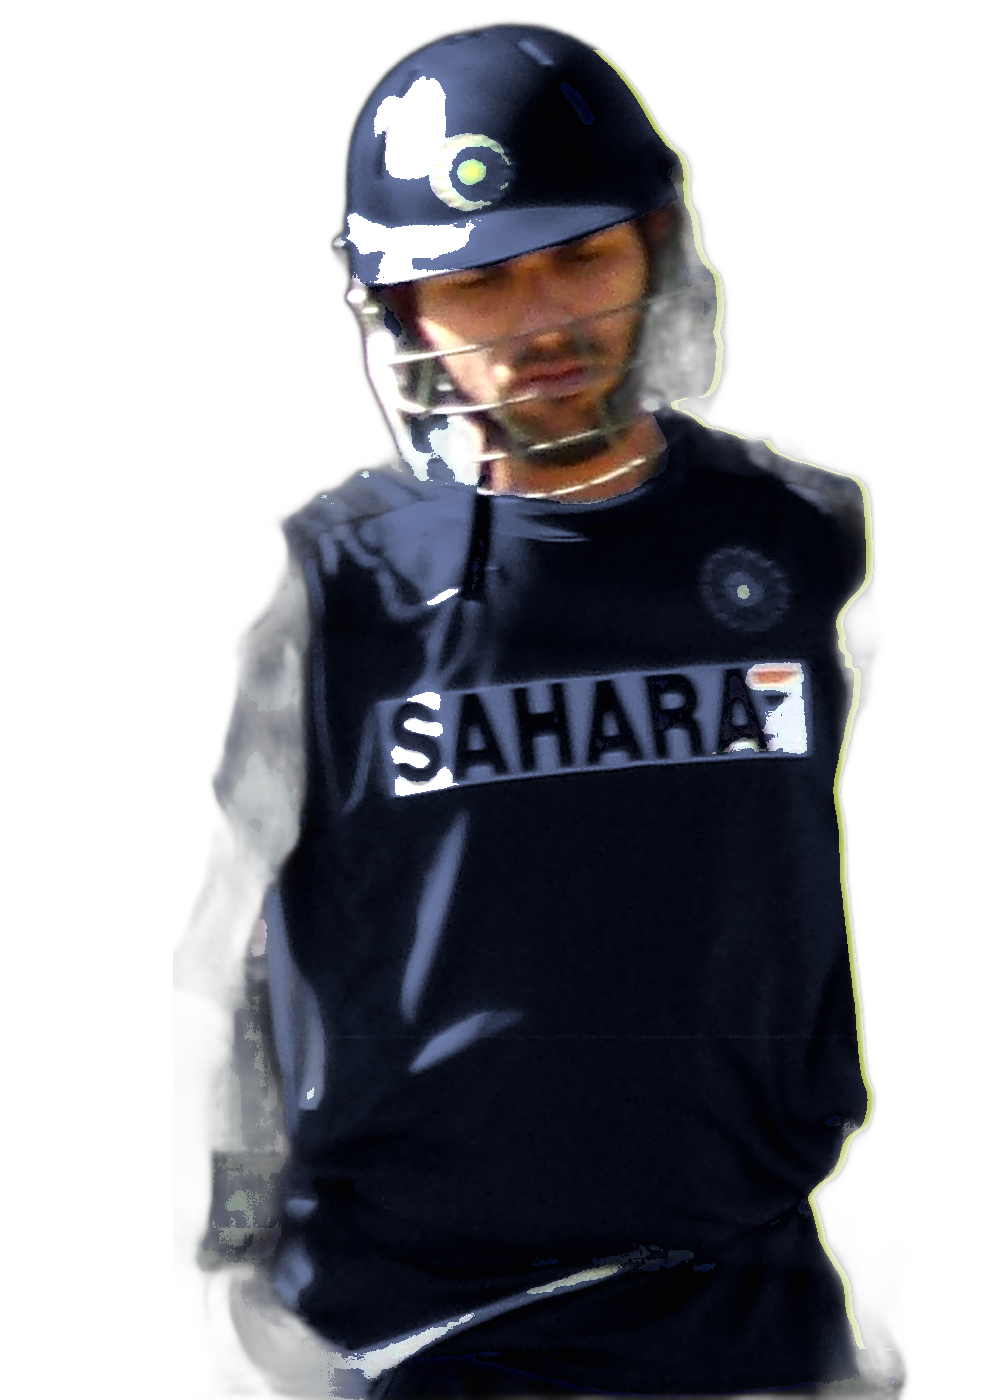
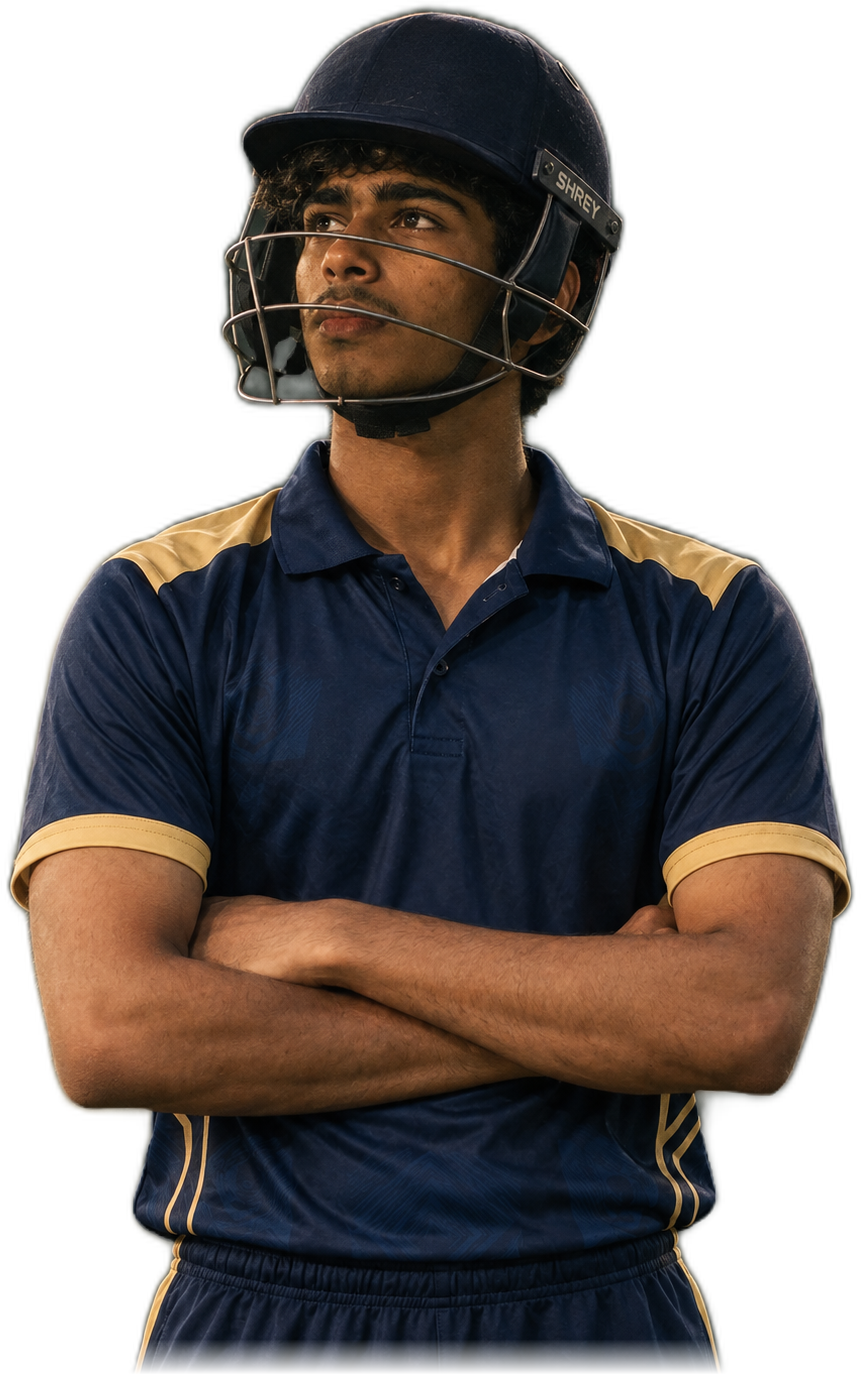
feat(hero-containment): integrate high-res ChatGPT cutout from Downloads, apply soft gradient ground fade, and lock precision vertical containment to prevent overflow

diff --git a/src/css/styles.css b/src/css/styles.css
@@ -3652,3 +3652,127 @@ body {
   border-bottom: 1px solid rgba(255, 255, 255, 0.08);
   padding-bottom: 0.5rem;
 }
+
+/* ==========================================================================
+   PERFECT VIEWPORT CONTAINMENT (PREVENT OVERFLOW & CLIPPING)
+   ========================================================================== */
+
+.broadcast-stadium-hero {
+  min-height: calc(96vh - 74px) !important;
+  max-height: calc(100vh - 74px);
+  padding: 1.75rem 0 0 !important;
+  overflow: hidden !important;
+}
+
+.hero-broadcast-grid {
+  align-items: flex-end !important;
+  margin-bottom: 0.75rem !important;
+  gap: 2.5rem !important;
+}
+
+.hero-command-col {
+  padding-bottom: 1rem !important;
+}
+
+.broadcast-giant-title {
+  font-size: clamp(4.2rem, 8vw, 6.8rem) !important;
+  line-height: 0.82 !important;
+  margin-bottom: 0.5rem !important;
+}
+
+.broadcast-subtitle {
+  font-size: 0.75rem !important;
+  margin-bottom: 1.25rem !important;
+}
+
+.broadcast-match-slate {
+  padding: 1.25rem 1.5rem !important;
+}
+
+.slate-teams-battle {
+  margin-bottom: 1rem !important;
+  gap: 1.25rem !important;
+}
+
+.team-abbrev {
+  font-size: 2.25rem !important;
+}
+
+/* Athlete Column & Sizing: Perfectly Fitted */
+.hero-athlete-col {
+  height: 100% !important;
+  min-height: 480px !important;
+  max-height: calc(90vh - 130px) !important;
+  display: flex !important;
+  align-items: flex-end !important;
+  justify-content: center !important;
+  position: relative !important;
+  overflow: visible !important;
+}
+
+.athlete-visual-wrapper {
+  height: 100% !important;
+  display: flex !important;
+  align-items: flex-end !important;
+  justify-content: center !important;
+  position: relative !important;
+  z-index: 2 !important;
+}
+
+.athlete-cutout-img {
+  max-height: min(580px, calc(82vh - 120px)) !important;
+  width: auto !important;
+  max-width: 100% !important;
+  object-fit: contain !important;
+  object-position: bottom center !important;
+  display: block !important;
+  filter: drop-shadow(0 15px 35px rgba(0, 0, 0, 0.92)) !important;
+  mask-image: linear-gradient(to bottom, black 85%, transparent 100%) !important;
+  -webkit-mask-image: linear-gradient(to bottom, black 85%, transparent 100%) !important;
+}
+
+/* Watermark: Contained on Right */
+.athlete-watermark {
+  top: 5% !important;
+  right: 0% !important;
+  font-size: clamp(6.5rem, 13vw, 11rem) !important;
+  z-index: 1 !important;
+}
+
+/* HUD: Inside Column with Safe Inset */
+.hero-player-stat-hud {
+  bottom: 15px !important;
+  left: 0px !important;
+  max-width: 270px !important;
+  padding: 1rem 1.25rem !important;
+  z-index: 4 !important;
+}
+
+.hud-stat-highlight {
+  font-size: 1.85rem !important;
+}
+
+.hud-player-name {
+  font-size: 1.35rem !important;
+}
+
+/* Clean Single Score Bug */
+.broadcast-score-bug {
+  padding: 0.65rem 0 !important;
+}
+
+/* Refined Vertical Clearance for Athlete */
+.hero-athlete-col {
+  padding-top: 2.5rem !important;
+  max-height: calc(82vh - 90px) !important;
+}
+
+.athlete-cutout-img {
+  max-height: min(520px, calc(72vh - 90px)) !important;
+  margin-bottom: 0 !important;
+}
+
+.hero-player-stat-hud {
+  bottom: 10px !important;
+  left: 10px !important;
+}
